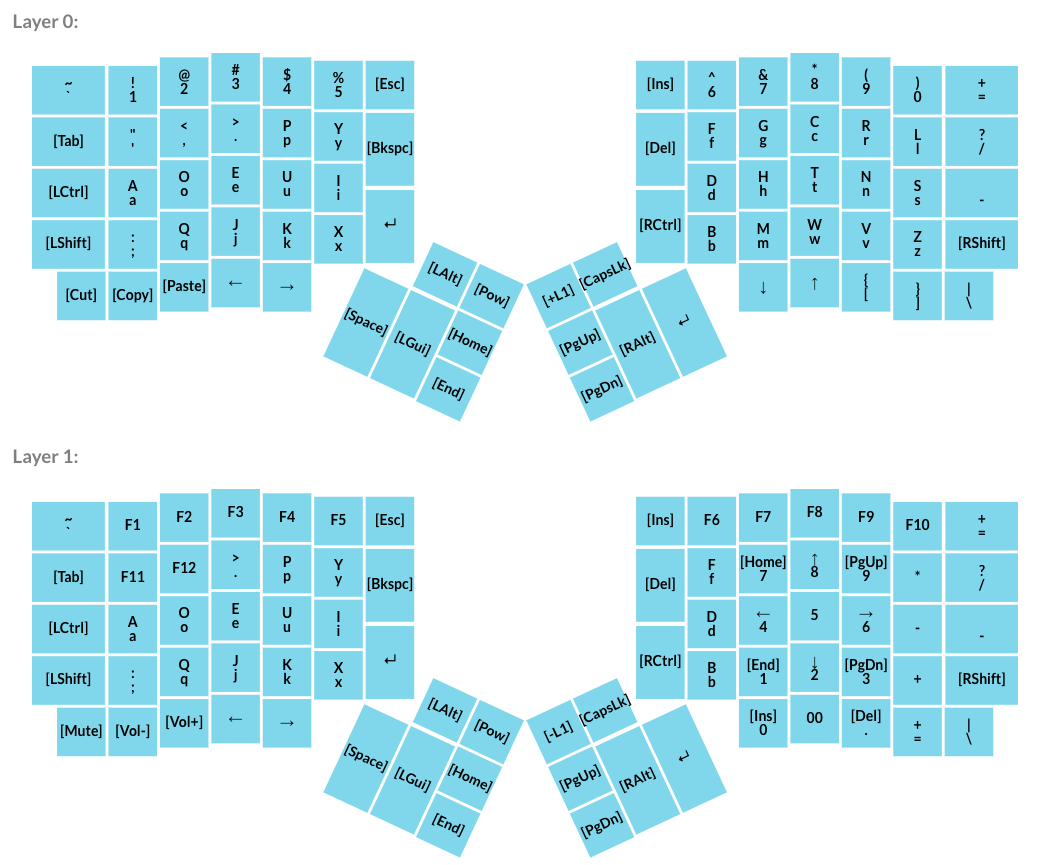
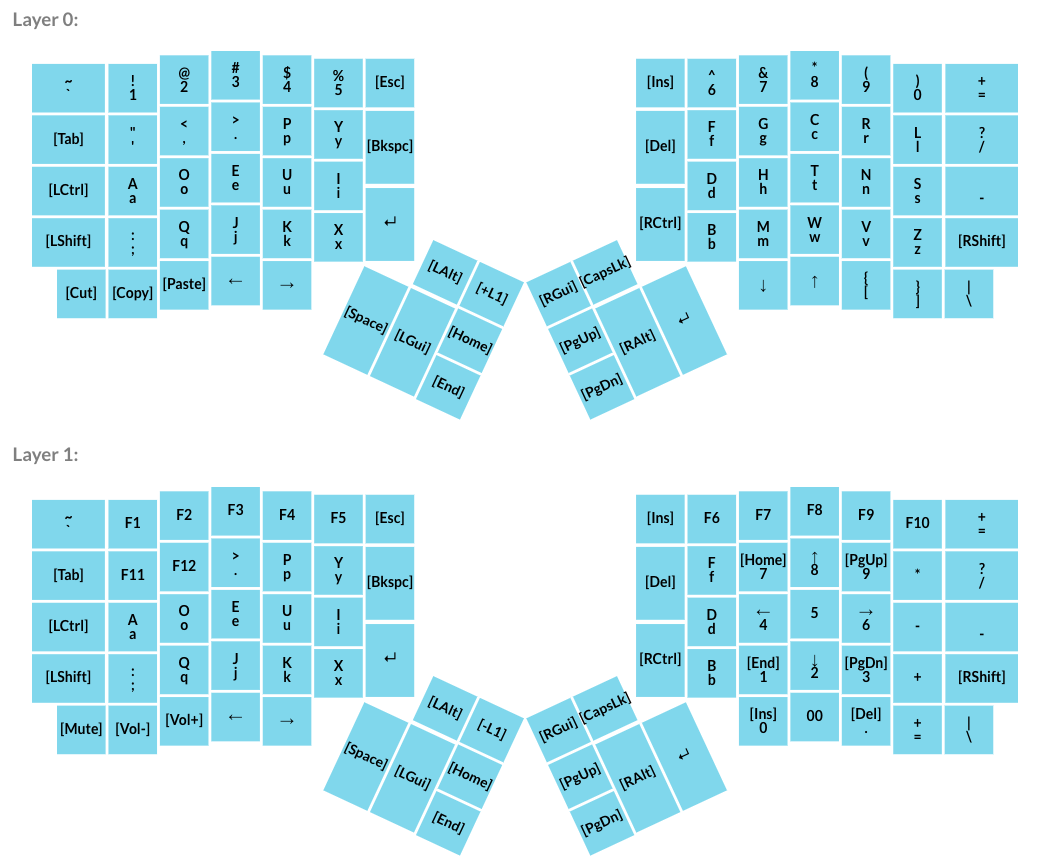
pow to L1, L1 to RGui

diff --git a/keyboard/ergodox/layout/default--layout.c b/keyboard/ergodox/layout/default--layout.c
@@ -71,7 +71,7 @@ KB_MATRIX_LAYER(
 	KEY_LeftControl,	KEY_a_A,	KEY_o_O,	KEY_e_E,	KEY_u_U,	KEY_i_I,	
 	KEY_LeftShift,	KEY_Semicolon_Colon,	KEY_q_Q,	KEY_j_J,	KEY_k_K,	KEY_x_X,	KEY_ReturnEnter,	
 	KEY_Cut,	KEY_Copy,	KEY_Paste,	KEY_LeftArrow,	KEY_RightArrow,	
-	KEY_LeftAlt,	KEY_Power,	
+	KEY_LeftAlt,	1,	
 	0,	0,	KEY_Home,	
 	KEY_Spacebar,	KEY_LeftGUI,	KEY_End,	
 	// right hand
@@ -80,7 +80,7 @@ KB_MATRIX_LAYER(
 	KEY_d_D,	KEY_h_H,	KEY_t_T,	KEY_n_N,	KEY_s_S,	KEY_Dash_Underscore,	
 	KEY_RightControl,	KEY_b_B,	KEY_m_M,	KEY_w_W,	KEY_v_V,	KEY_z_Z,	KEY_RightShift,	
 	KEY_DownArrow,	KEY_UpArrow,	KEY_LeftBracket_LeftBrace,	KEY_RightBracket_RightBrace,	KEY_Backslash_Pipe,	
-	1,	KEY_CapsLock,	
+	KEY_RightGUI,	KEY_CapsLock,	
 	KEY_PageUp,	0,	0,	
 	KEY_PageDown,	KEY_RightAlt,	KEY_ReturnEnter	
 ),
@@ -94,7 +94,7 @@ KB_MATRIX_LAYER(
 	KEY_LeftControl,	KEY_a_A,	KEY_o_O,	KEY_e_E,	KEY_u_U,	KEY_i_I,	
 	KEY_LeftShift,	KEY_Semicolon_Colon,	KEY_q_Q,	KEY_j_J,	KEY_k_K,	KEY_x_X,	KEY_ReturnEnter,	
 	KEY_Mute,	KEY_VolumeDown,	KEY_VolumeUp,	KEY_LeftArrow,	KEY_RightArrow,	
-	KEY_LeftAlt,	KEY_Power,	
+	KEY_LeftAlt,	1,	
 	0,	0,	KEY_Home,	
 	KEY_Spacebar,	KEY_LeftGUI,	KEY_End,	
 	// right hand
@@ -103,7 +103,7 @@ KB_MATRIX_LAYER(
 	KEY_d_D,	KEYPAD_4_LeftArrow,	KEYPAD_5,	KEYPAD_6_RightArrow,	KEYPAD_Minus,	KEY_Dash_Underscore,	
 	KEY_RightControl,	KEY_b_B,	KEYPAD_1_End,	KEYPAD_2_DownArrow,	KEYPAD_3_PageDown,	KEYPAD_Plus,	KEY_RightShift,	
 	KEYPAD_0_Insert,	KEYPAD_00,	KEYPAD_Period_Delete,	KEY_Equal_Plus,	KEY_Backslash_Pipe,	
-	1,	KEY_CapsLock,	
+	KEY_RightGUI,	KEY_CapsLock,	
 	KEY_PageUp,	0,	0,	
 	KEY_PageDown,	KEY_RightAlt,	KEY_ReturnEnter	
 ),
@@ -306,7 +306,7 @@ KB_MATRIX_LAYER(
 	kprrel,	kprrel,	kprrel,	kprrel,	kprrel,	kprrel,	
 	kprrel,	kprrel,	kprrel,	kprrel,	kprrel,	kprrel,	kprrel,	
 	kprrel,	kprrel,	kprrel,	kprrel,	kprrel,	
-	kprrel,	kprrel,	
+	kprrel,	lpush1,	
 	NULL,	NULL,	kprrel,	
 	kprrel,	kprrel,	kprrel,	
 	// right hand
@@ -315,7 +315,7 @@ KB_MATRIX_LAYER(
 	kprrel,	kprrel,	kprrel,	kprrel,	kprrel,	kprrel,	
 	kprrel,	kprrel,	kprrel,	kprrel,	kprrel,	kprrel,	kprrel,	
 	kprrel,	kprrel,	kprrel,	kprrel,	kprrel,	
-	lpush1,	kprrel,	
+	kprrel,	kprrel,	
 	kprrel,	NULL,	NULL,	
 	kprrel,	kprrel,	kprrel	
 ),
@@ -329,7 +329,7 @@ KB_MATRIX_LAYER(
 	kprrel,	kprrel,	kprrel,	kprrel,	kprrel,	kprrel,	
 	kprrel,	kprrel,	kprrel,	kprrel,	kprrel,	kprrel,	kprrel,	
 	kprrel,	kprrel,	kprrel,	kprrel,	kprrel,	
-	kprrel,	kprrel,	
+	kprrel,	lpop1,	
 	NULL,	NULL,	kprrel,	
 	kprrel,	kprrel,	kprrel,	
 	// right hand
@@ -338,7 +338,7 @@ KB_MATRIX_LAYER(
 	kprrel,	kprrel,	kprrel,	kprrel,	kprrel,	kprrel,	
 	kprrel,	kprrel,	kprrel,	kprrel,	kprrel,	kprrel,	kprrel,	
 	kprrel,	kprrel,	kprrel,	kprrel,	kprrel,	
-	lpop1,	kprrel,	
+	kprrel,	kprrel,	
 	kprrel,	NULL,	NULL,	
 	kprrel,	kprrel,	kprrel	
 ),
@@ -541,7 +541,7 @@ KB_MATRIX_LAYER(
 	kprrel,	kprrel,	kprrel,	kprrel,	kprrel,	kprrel,	
 	kprrel,	kprrel,	kprrel,	kprrel,	kprrel,	kprrel,	kprrel,	
 	kprrel,	kprrel,	kprrel,	kprrel,	kprrel,	
-	kprrel,	kprrel,	
+	kprrel,	NULL,	
 	NULL,	NULL,	kprrel,	
 	kprrel,	kprrel,	kprrel,	
 	// right hand
@@ -550,7 +550,7 @@ KB_MATRIX_LAYER(
 	kprrel,	kprrel,	kprrel,	kprrel,	kprrel,	kprrel,	
 	kprrel,	kprrel,	kprrel,	kprrel,	kprrel,	kprrel,	kprrel,	
 	kprrel,	kprrel,	kprrel,	kprrel,	kprrel,	
-	NULL,	kprrel,	
+	kprrel,	kprrel,	
 	kprrel,	NULL,	NULL,	
 	kprrel,	kprrel,	kprrel	
 ),
@@ -564,7 +564,7 @@ KB_MATRIX_LAYER(
 	kprrel,	kprrel,	kprrel,	kprrel,	kprrel,	kprrel,	
 	kprrel,	kprrel,	kprrel,	kprrel,	kprrel,	kprrel,	kprrel,	
 	kprrel,	kprrel,	kprrel,	kprrel,	kprrel,	
-	kprrel,	kprrel,	
+	kprrel,	NULL,	
 	NULL,	NULL,	kprrel,	
 	kprrel,	kprrel,	kprrel,	
 	// right hand
@@ -573,7 +573,7 @@ KB_MATRIX_LAYER(
 	kprrel,	kprrel,	kprrel,	kprrel,	kprrel,	kprrel,	
 	kprrel,	kprrel,	kprrel,	kprrel,	kprrel,	kprrel,	kprrel,	
 	kprrel,	kprrel,	kprrel,	kprrel,	kprrel,	
-	NULL,	kprrel,	
+	kprrel,	kprrel,	
 	kprrel,	NULL,	NULL,	
 	kprrel,	kprrel,	kprrel	
 ),
